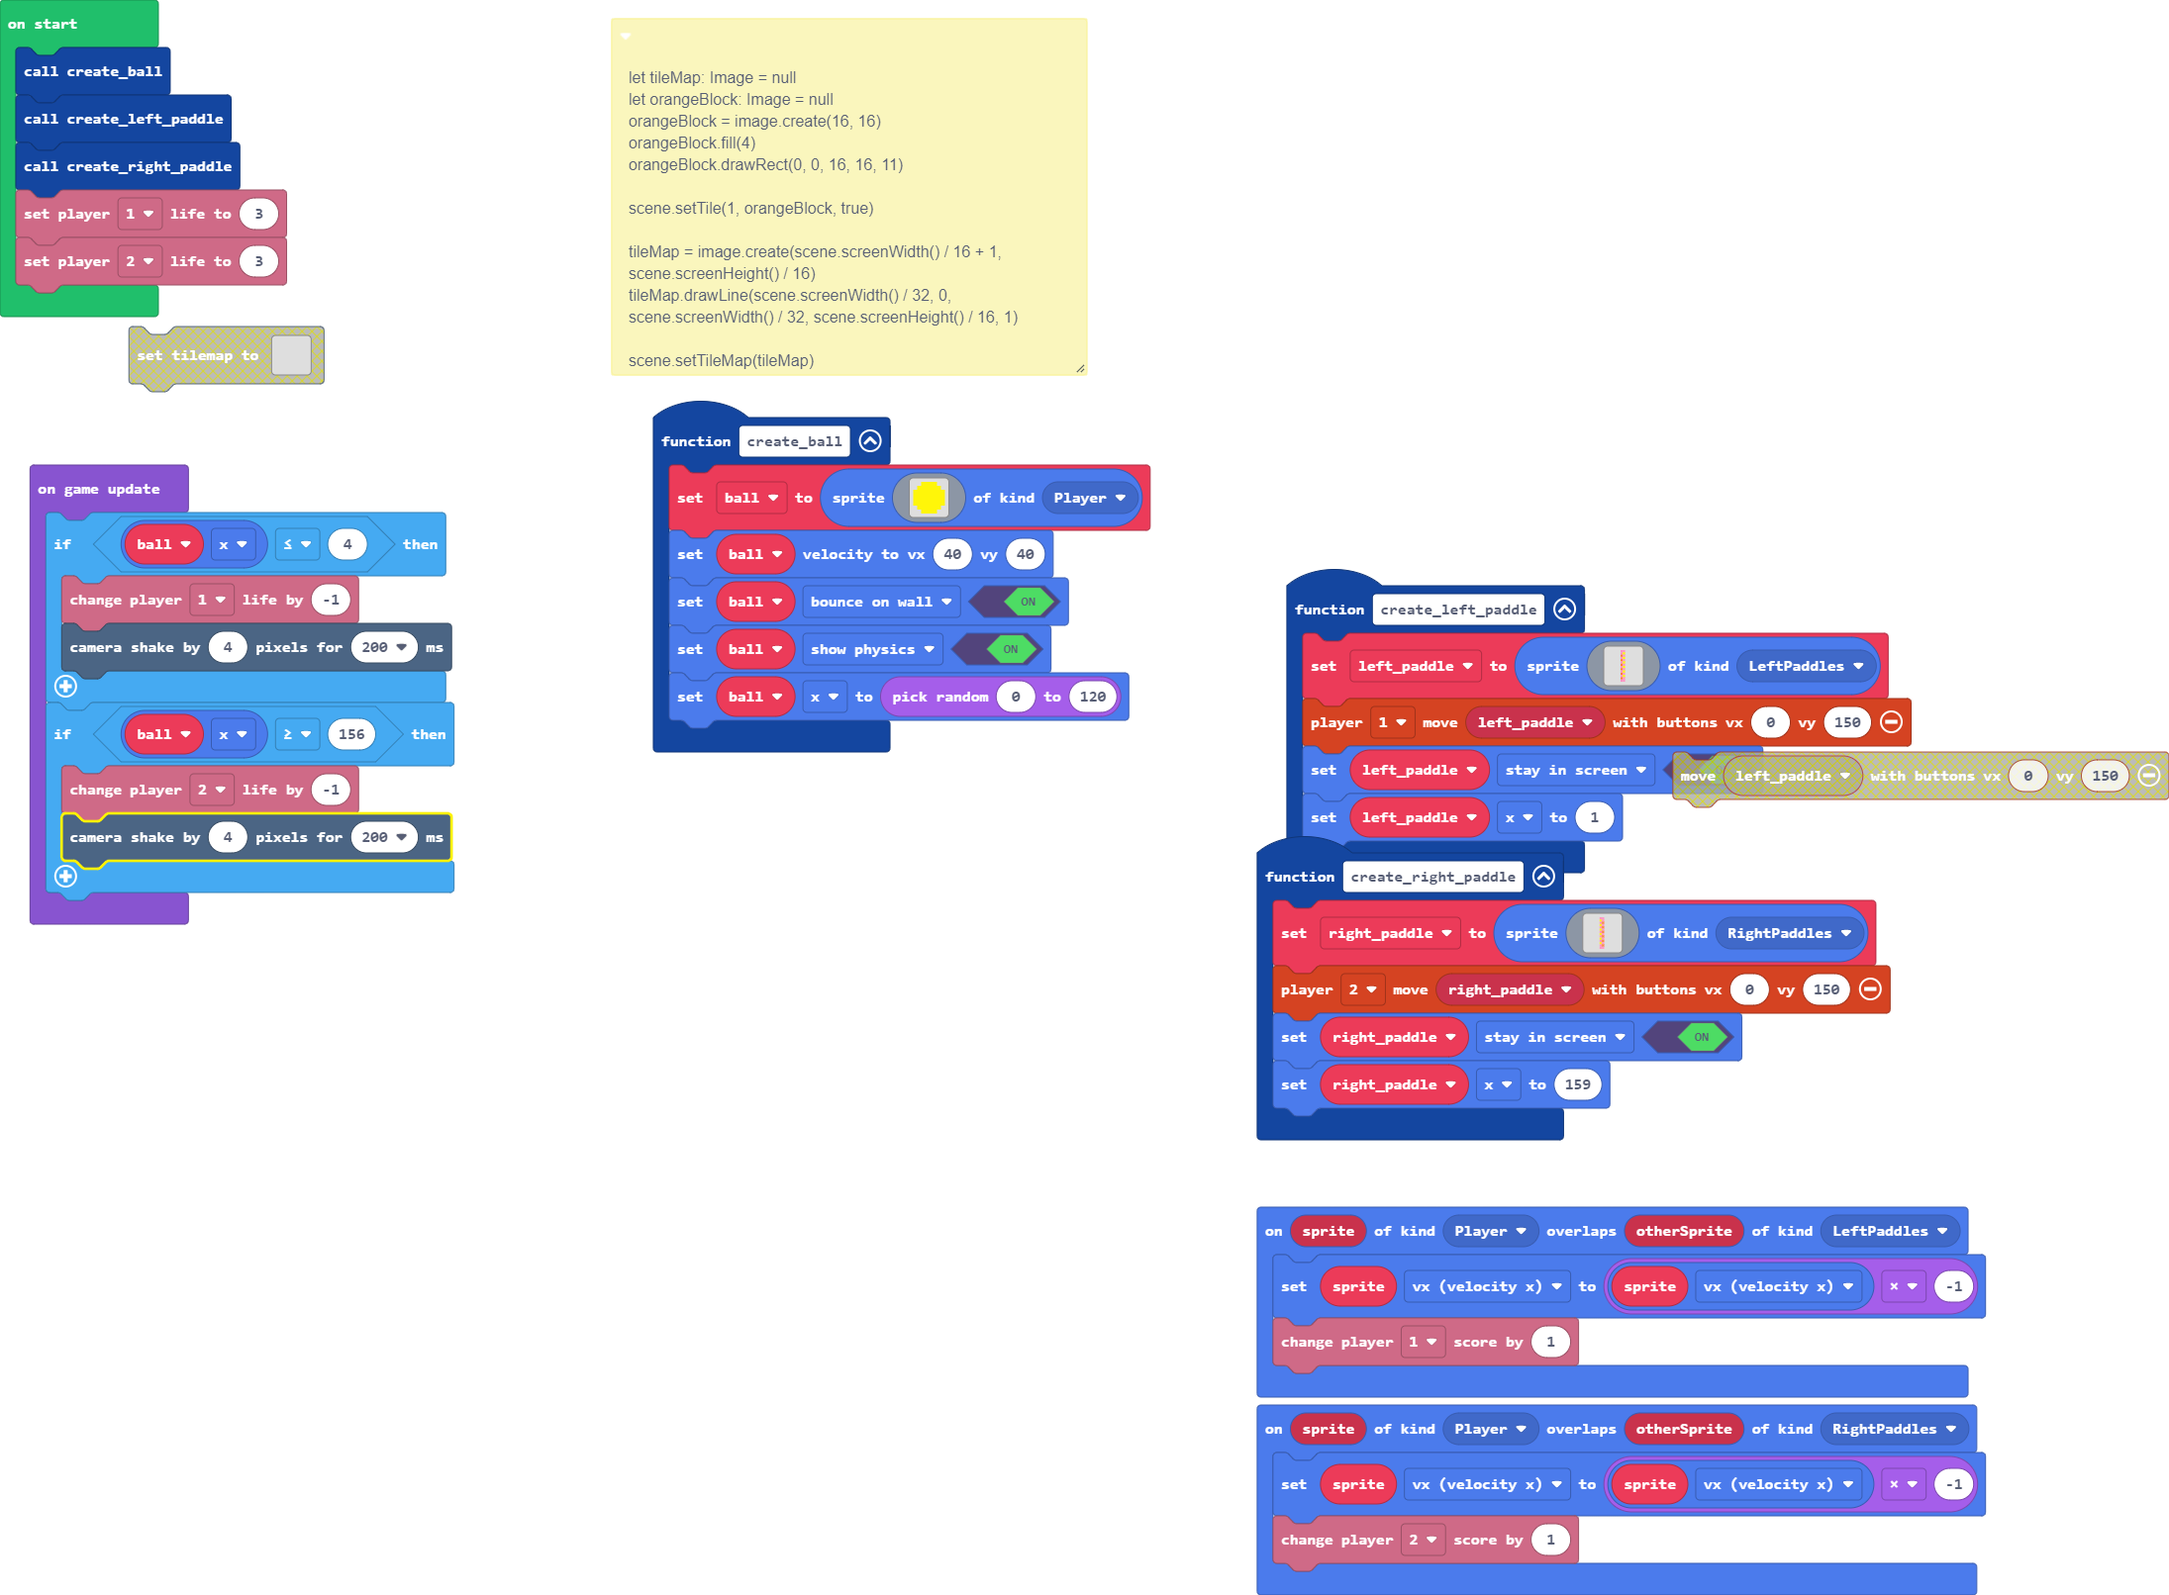
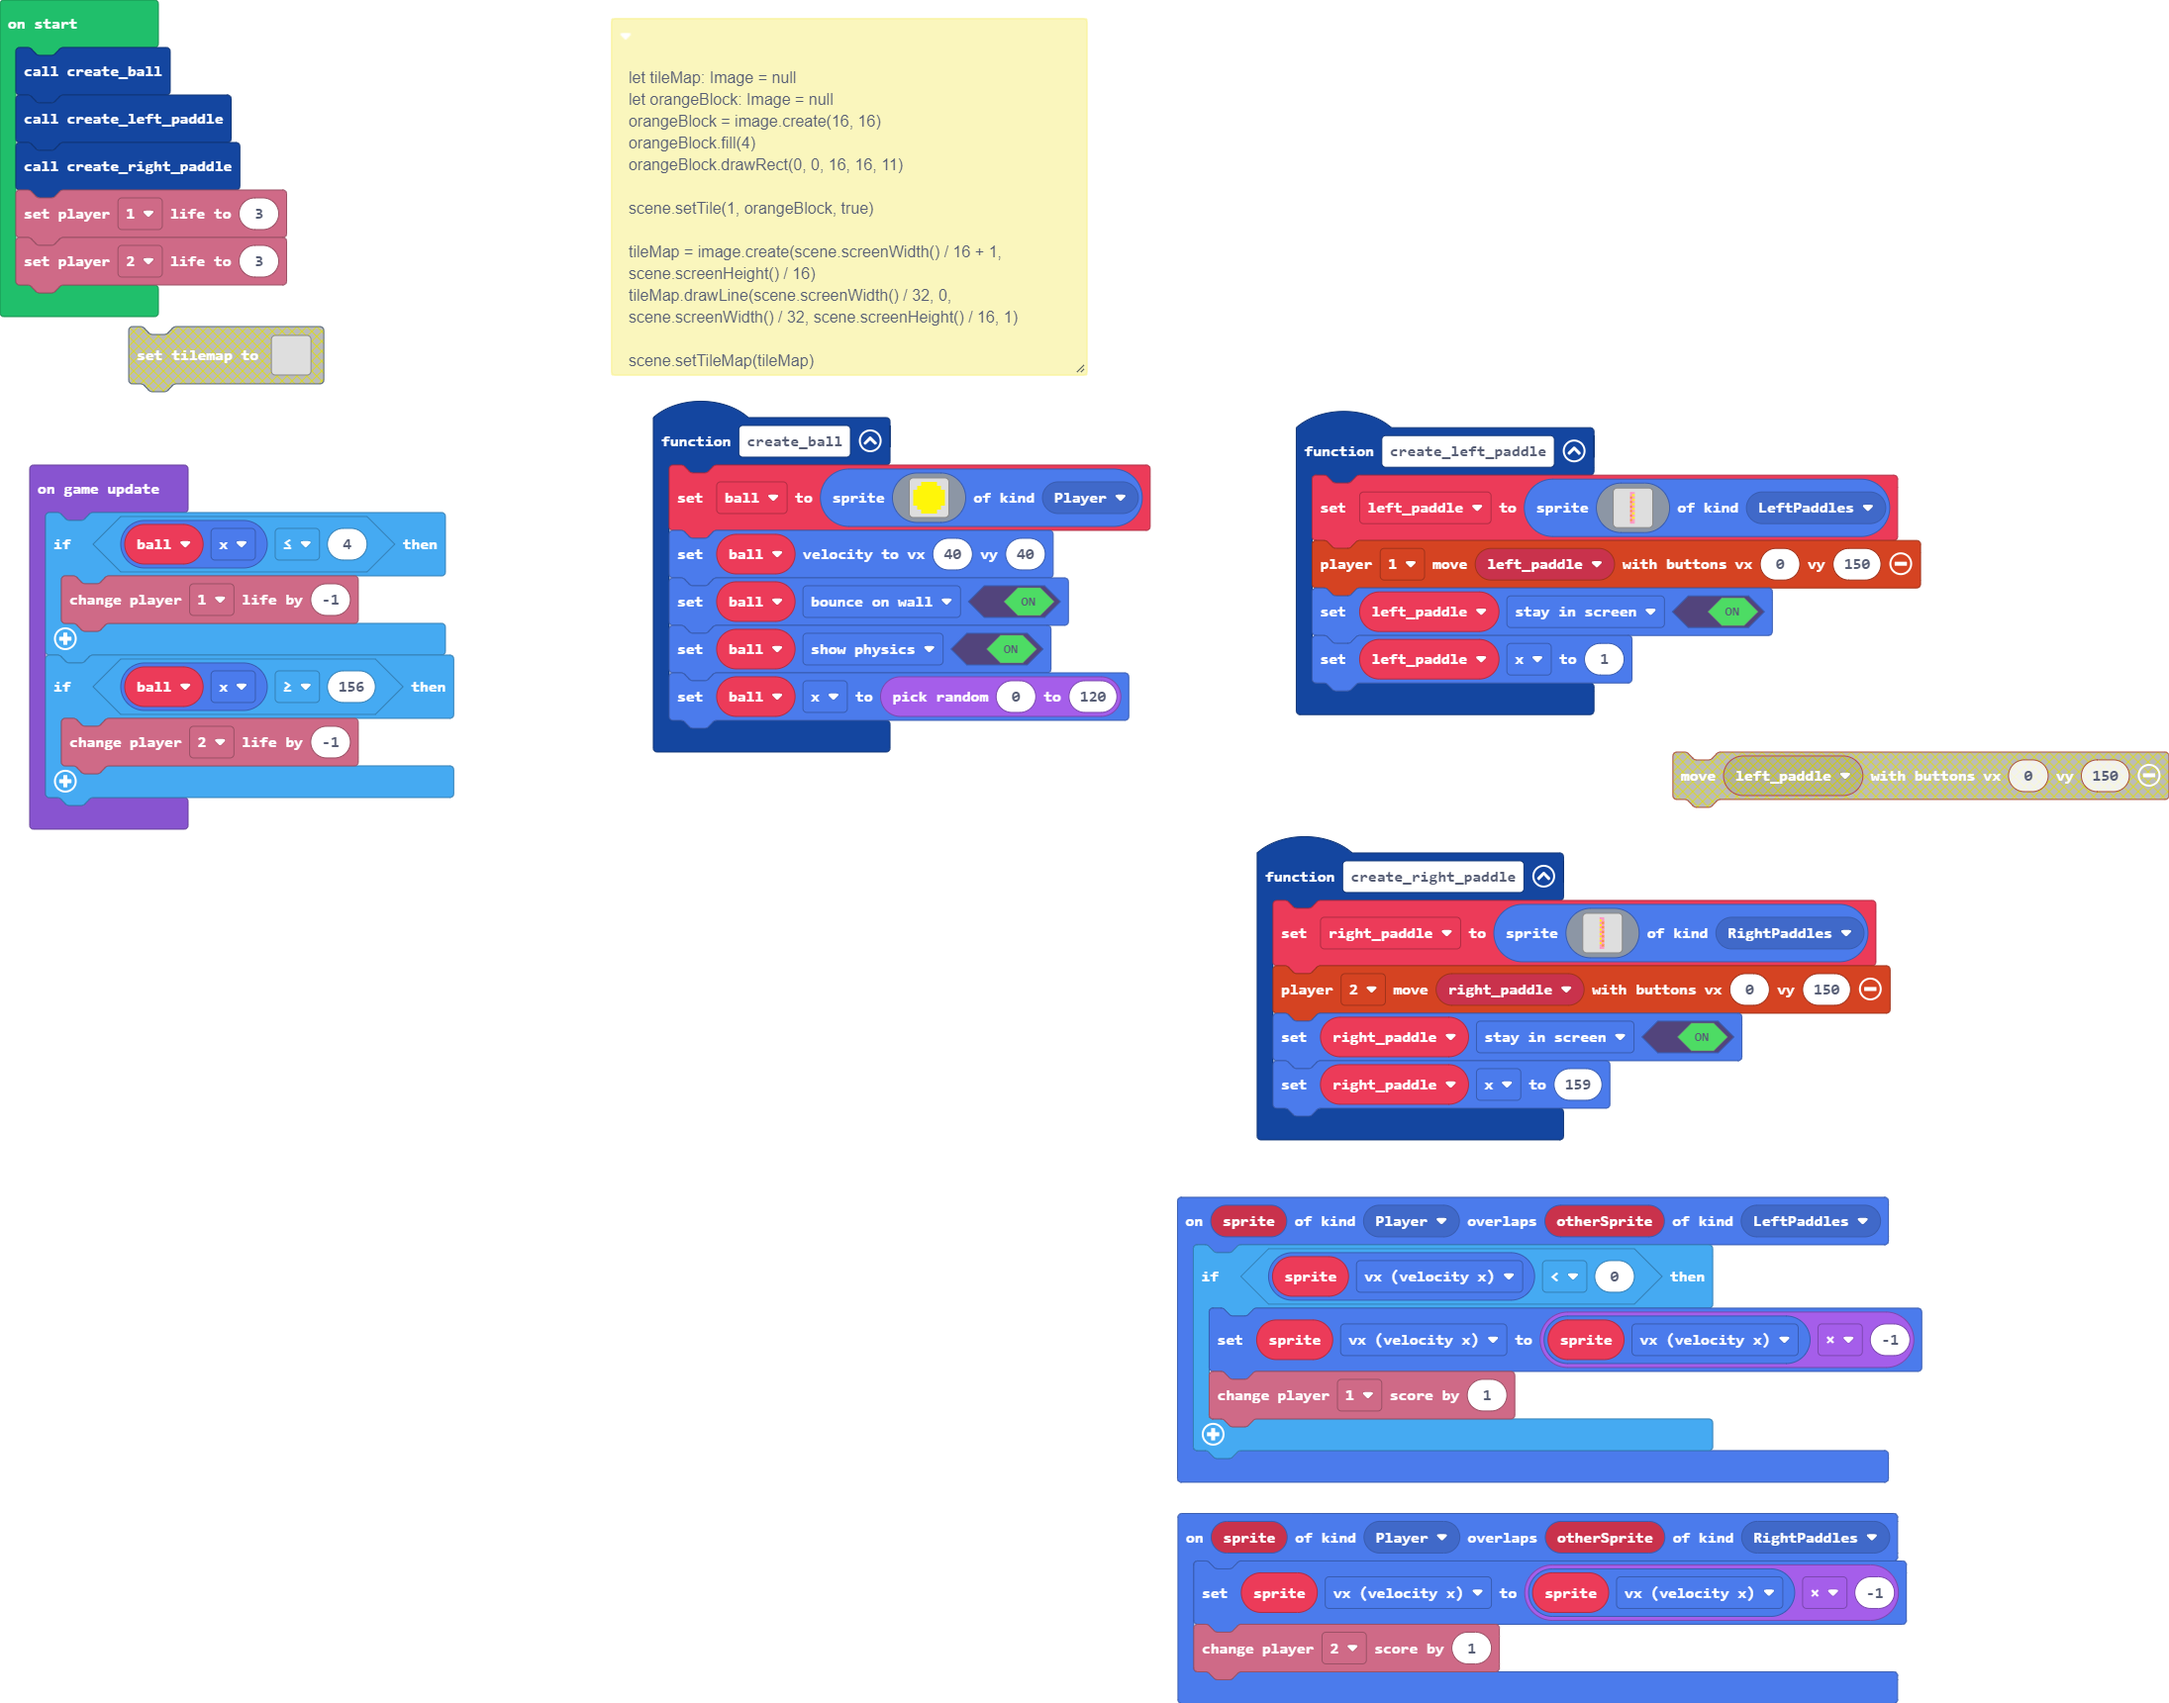
Update main.blocks, main.ts

Changed region(s): [[0.5276, 0.2171, 1.0, 1.0], [0.0, 0.0, 0.2173, 0.5893], [0.2793, 0.031, 0.5276, 0.4963]]

diff --git a/main.ts b/main.ts
@@ -84,8 +84,10 @@ function create_ball () {
     ball.x = randint(0, 120)
 }
 sprites.onOverlap(SpriteKind.Player, SpriteKind.LeftPaddles, function (sprite, otherSprite) {
-    sprite.vx = sprite.vx * -1
-    info.player1.changeScoreBy(1)
+    if (sprite.vx < 0) {
+        sprite.vx = sprite.vx * -1
+        info.player1.changeScoreBy(1)
+    }
 })
 let ball: Sprite = null
 let left_paddle: Sprite = null
@@ -98,10 +100,8 @@ info.player2.setLife(3)
 game.onUpdate(function () {
     if (ball.x <= 4) {
         info.player1.changeLifeBy(-1)
-        scene.cameraShake(4, 200)
     }
     if (ball.x >= 156) {
         info.player2.changeLifeBy(-1)
-        scene.cameraShake(4, 200)
     }
 })
